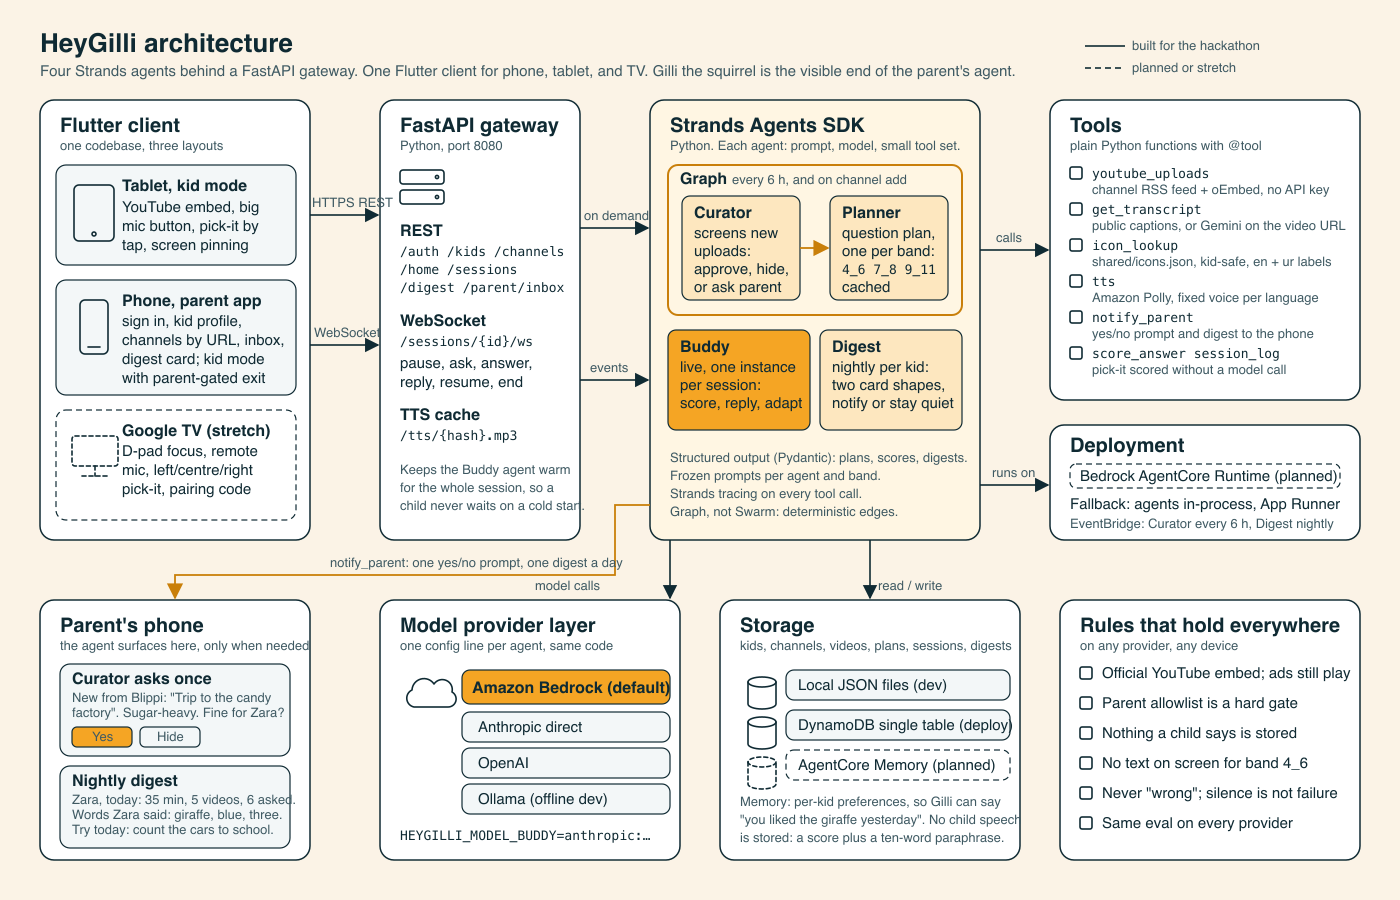
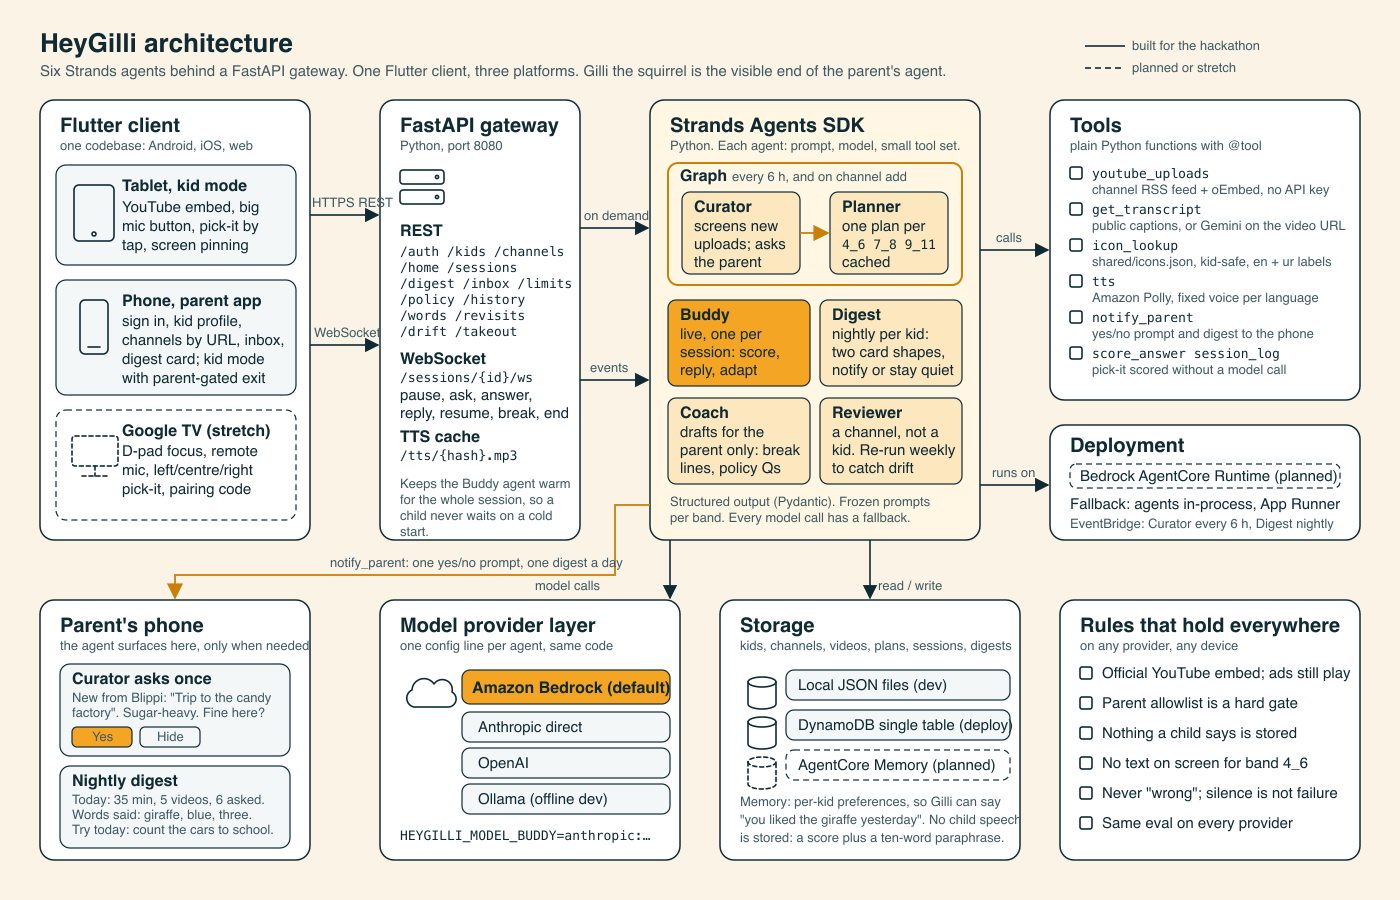
Architecture diagram: what actually shipped
It said four Strands agents and "phone, tablet, and TV". There are six — Coach
and Reviewer were missing, and they are the two doing the work behind three of
the five newest features — and the client now runs on Android, iOS and web. The
REST list stopped at /digest and /parent/inbox, so a reader had no way to know
the v1.7 routes existed.

The parent's-phone examples named an invented child in three places. They read
the same without a name that belongs to nobody.

Regenerated the PNG from the SVG; both are in the submission.

diff --git a/docs/submission-checklist.md b/docs/submission-checklist.md
@@ -34,7 +34,7 @@ Per SPEC section 14. Items that affect the submission only:
 - [ ] Provider eval run on Bedrock and the second provider. Record pass and fail counts; fill `[TBD from testing]` in `docs/blog-1-strands-design.md`.
 - [ ] Second child test if possible.
 - [ ] README final pass: what shipped, what did not, setup that works from a clean clone, `docs/architecture.png` embedded, link to `docs/PROTOCOL.md`.
-- [ ] Architecture diagram updated to match what shipped (dashed boxes for anything still planned).
+- [x] Architecture diagram updated to match what shipped (dashed boxes for anything still planned). Done 6 Sep: six agents, three platforms, the v1.7 routes.
 - [ ] Publish builder.aws post 1: `docs/blog-1-strands-design.md`. Title must contain "Agents for Humans". Remove every `[TBD]`. Save the URL.
 - [ ] Write the testing instructions and third-party disclosure text in `docs/devpost-submission.md` to match reality.
 
@@ -95,7 +95,7 @@ Do these in order.
 | Public repo URL | github.com/mujahidmasood/heygilli | [ ] |
 | MIT license visible | `LICENSE` | [x] |
 | README with setup instructions | `README.md` | [ ] |
-| Architecture diagram | `docs/architecture.svg`, `docs/architecture.png` | [x] drawn, [ ] matches what shipped |
+| Architecture diagram | `docs/architecture.svg`, `docs/architecture.png` | [x] drawn, [x] matches what shipped (6 Sep) |
 | Text description | `docs/devpost-submission.md` | [x] drafted, [ ] finalised |
 | Demo video, 5:00 max, public on YouTube | [ ] URL | [ ] |
 | Testing access: test build or live link | GitHub Release APK, gateway URL | [ ] |
